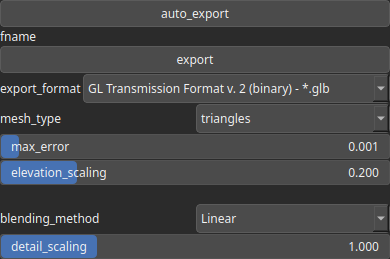
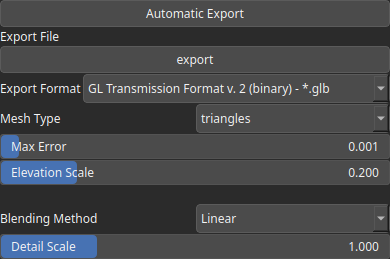
Update ExportAsset doc

diff --git a/Hesiod/src/model/nodes/nodes_function/export_asset.cpp b/Hesiod/src/model/nodes/nodes_function/export_asset.cpp
@@ -30,12 +30,12 @@ void setup_export_asset_node(BaseNode &node)
 
   // attribute(s)
   node.add_attr<FilenameAttribute>("fname",
-                                   "fname",
+                                   "Export File",
                                    std::filesystem::path("export"),
                                    "*",
                                    true);
 
-  node.add_attr<BoolAttribute>("auto_export", "auto_export", false);
+  node.add_attr<BoolAttribute>("auto_export", "Automatic Export", false);
 
   {
     // generate enumerate mappings
@@ -52,20 +52,20 @@ void setup_export_asset_node(BaseNode &node)
     std::string default_mesh_type = "triangles";
 
     node.add_attr<EnumAttribute>("export_format",
-                                 "export_format",
+                                 "Export Format",
                                  export_format_map,
                                  default_export_format);
     node.add_attr<EnumAttribute>("mesh_type",
-                                 "mesh_type",
+                                 "Mesh Type",
                                  export_mesh_map,
                                  default_mesh_type);
   }
 
-  node.add_attr<FloatAttribute>("max_error", "max_error", 5e-4f, 0.f, 0.01f);
-  node.add_attr<FloatAttribute>("elevation_scaling", "elevation_scaling", 0.2f, 0.f, 1.f);
-  node.add_attr<FloatAttribute>("detail_scaling", "detail_scaling", 1.f, 0.f, 4.f);
+  node.add_attr<FloatAttribute>("max_error", "Max Error", 5e-4f, 0.f, 0.01f);
+  node.add_attr<FloatAttribute>("elevation_scaling", "Elevation Scale", 0.2f, 0.f, 1.f);
+  node.add_attr<FloatAttribute>("detail_scaling", "Detail Scale", 1.f, 0.f, 4.f);
   node.add_attr<EnumAttribute>("blending_method",
-                               "blending_method",
+                               "Blending Method",
                                hmap::normal_map_blending_method_as_string);
 
   // attribute(s) order

diff --git a/docs/node_reference/nodes/ExportAsset.md b/docs/node_reference/nodes/ExportAsset.md
@@ -26,14 +26,14 @@ IO/Files
 
 |Name|Type|Description|
 | :--- | :--- | :--- |
-|auto_export|Bool|Controls whether the output file is automatically written when the node is updated. Default is false. When set to true, the file is saved automatically on updates. If false, use the 'Force Reload' button on the node to manually trigger the export.|
-|blending_method|Enumeration|Defines the method used to blend the normal map for small details.|
-|detail_scaling|Float|Scaling factor applied to the detail normal map.|
-|elevation_scaling|Float|Factor used to scale elevation values.|
-|export_format|Enumeration|Defines the file format for export. Available formats include Assimp Binary (*.assbin), Assxml Document (*.assxml), Autodesk 3DS (*.3ds), Autodesk FBX (ASCII/Binary) (*.fbx), COLLADA (*.dae), Extensible 3D (*.x3d), GL Transmission Format (GLB/GLTF v1 & v2), Stanford Polygon Library (*.ply), Step Files (*.stp), Stereolithography (*.stl), 3MF (*.3mf), and Wavefront OBJ (*.obj) with or without material files.|
-|fname|Filename|Specifies the name of the exported file.|
-|max_error|Float|Maximum allowable error when generating an optimized triangulated mesh.|
-|mesh_type|Enumeration|Specifies the type of mesh geometry used. Options include 'triangles' and 'triangles (optimized)'.|
+|Automatic Export|Bool|Controls whether the output file is automatically written when the node is updated. Default is false. When set to true, the file is saved automatically on updates. If false, use the 'Force Reload' button on the node to manually trigger the export.|
+|Blending Method|Enumeration|Defines the method used to blend the normal map for small details.|
+|Detail Scale|Float|Scaling factor applied to the detail normal map.|
+|Elevation Scale|Float|Factor used to scale elevation values.|
+|Export Format|Enumeration|Defines the file format for export. Available formats include Assimp Binary (*.assbin), Assxml Document (*.assxml), Autodesk 3DS (*.3ds), Autodesk FBX (ASCII/Binary) (*.fbx), COLLADA (*.dae), Extensible 3D (*.x3d), GL Transmission Format (GLB/GLTF v1 & v2), Stanford Polygon Library (*.ply), Step Files (*.stp), Stereolithography (*.stl), 3MF (*.3mf), and Wavefront OBJ (*.obj) with or without material files.|
+|Export File|Filename|Specifies the name of the exported file.|
+|Max Error|Float|Maximum allowable error when generating an optimized triangulated mesh.|
+|Mesh Type|Enumeration|Specifies the type of mesh geometry used. Options include 'triangles' and 'triangles (optimized)'.|
 
 # Example
 
